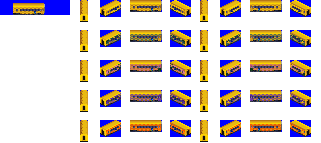
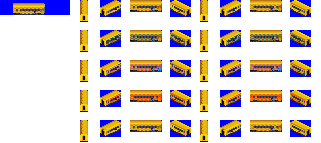
Apply #361: G-train 객차 그래픽 변경

diff --git a/docs/changelog.md b/docs/changelog.md
@@ -1,6 +1,7 @@
 2.4.0-RC2
 -----
  * 변경: A-train 객차 및 발전차 그래픽 변경 [#361]
+ * 변경: G-train 객차 그래픽 변경 [#361]
 
 2.4.0-RC1
 -----
